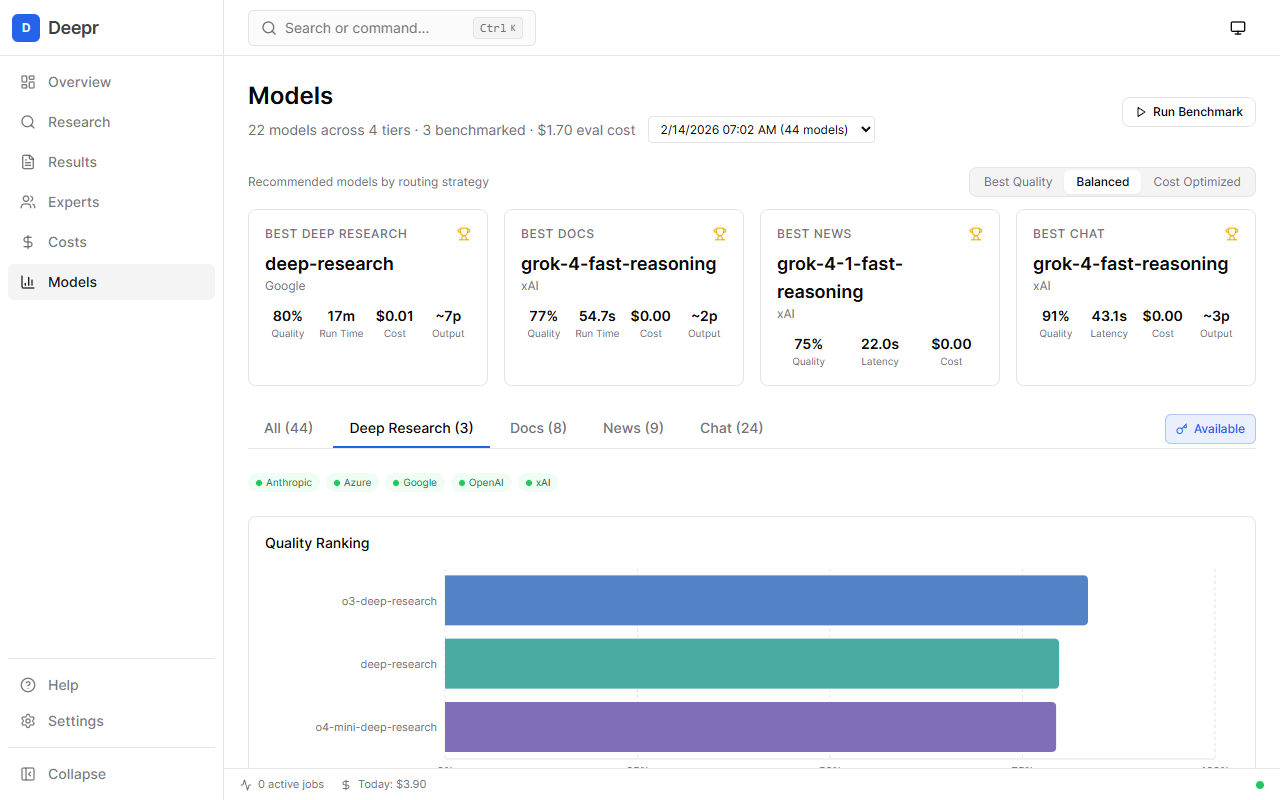
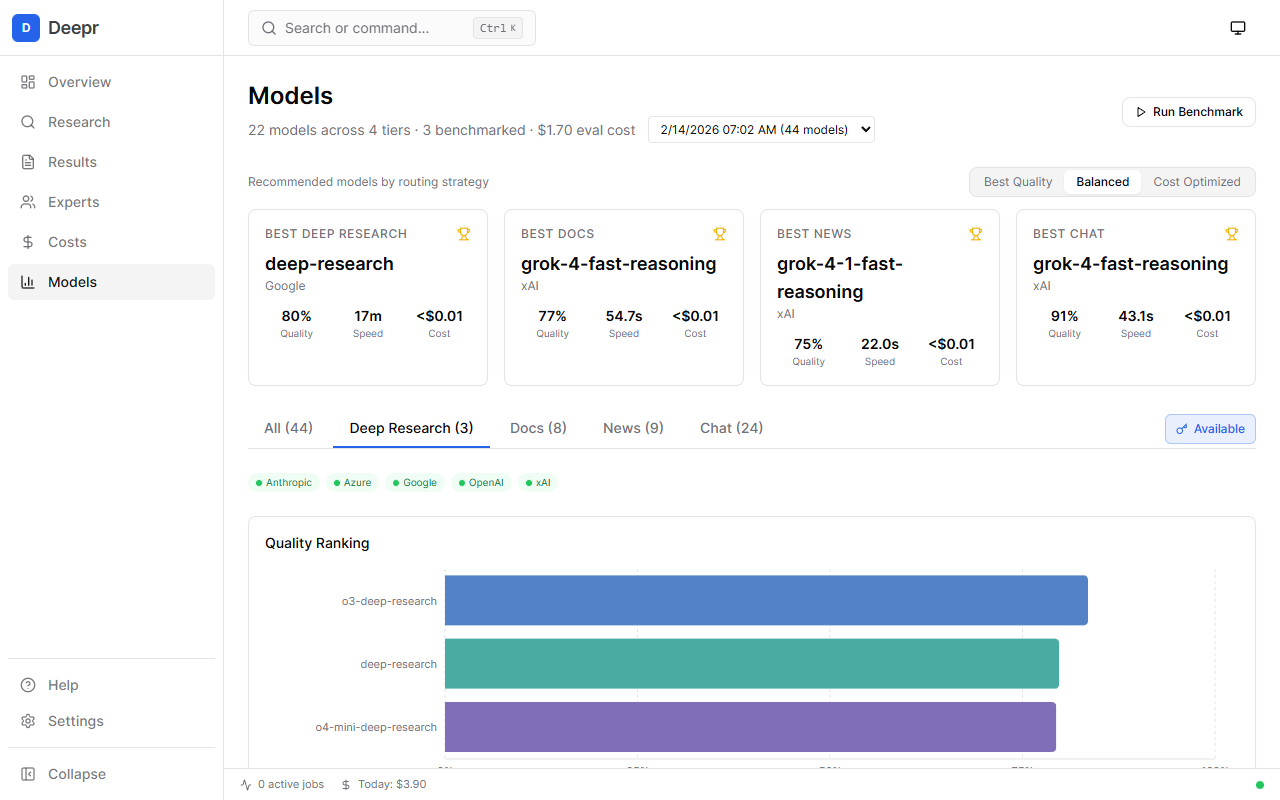
Update startup, currency formatting, and benchmarks UI
Add allow_unsafe_werkzeug=True to socketio.run to allow running with newer Werkzeug during development. Improve formatCurrency to render amounts between $0 and $0.01 as "<$0.01". Simplify the Benchmarks page by removing the avgReportLengthByTier memo and the variable 4th "Output" column: use a fixed 3-column grid and rename the latency label to "Speed". Also update assets/models.png (binary asset changed).

diff --git a/deepr/web/frontend/src/pages/benchmarks.tsx b/deepr/web/frontend/src/pages/benchmarks.tsx
@@ -272,21 +272,6 @@ export default function Benchmarks() {
 
   // Compute average report length per tier from results
   // NOTE: must be before early returns to satisfy Rules of Hooks
-  const avgReportLengthByTier = useMemo(() => {
-    const map: Record<string, { total: number; count: number }> = {}
-    for (const r of results) {
-      if (r.report_length > 0) {
-        if (!map[r.tier]) map[r.tier] = { total: 0, count: 0 }
-        map[r.tier].total += r.report_length
-        map[r.tier].count++
-      }
-    }
-    const result: Record<string, number> = {}
-    for (const [tier, { total, count }] of Object.entries(map)) {
-      result[tier] = Math.round(total / count)
-    }
-    return result
-  }, [results])
 
   if (isLoading) {
     return (
@@ -499,25 +484,19 @@ export default function Benchmarks() {
                 </div>
                 <p className="text-lg font-semibold text-foreground">{modelName}</p>
                 <p className="text-xs text-muted-foreground mb-3">{providerLabel(provider)}</p>
-                <div className={cn("grid gap-2 text-center", avgReportLengthByTier[tier] ? "grid-cols-4" : "grid-cols-3")}>
+                <div className="grid grid-cols-3 gap-2 text-center">
                   <div>
                     <p className="text-sm font-bold text-foreground">{(top.avg_quality * 100).toFixed(0)}%</p>
                     <p className="text-[10px] text-muted-foreground">Quality</p>
                   </div>
                   <div>
                     <p className="text-sm font-bold text-foreground">{formatLatency(top.avg_latency_ms)}</p>
-                    <p className="text-[10px] text-muted-foreground">{tier === 'research' || tier === 'docs' ? 'Run Time' : 'Latency'}</p>
+                    <p className="text-[10px] text-muted-foreground">Speed</p>
                   </div>
                   <div>
                     <p className="text-sm font-bold text-foreground">{formatCurrency(top.total_cost)}</p>
                     <p className="text-[10px] text-muted-foreground">Cost</p>
                   </div>
-                  {avgReportLengthByTier[tier] && (
-                    <div>
-                      <p className="text-sm font-bold text-foreground">~{Math.round(avgReportLengthByTier[tier] / 500)}p</p>
-                      <p className="text-[10px] text-muted-foreground">Output</p>
-                    </div>
-                  )}
                 </div>
               </div>
             )

diff --git a/deepr/web/frontend/src/lib/utils.ts b/deepr/web/frontend/src/lib/utils.ts
@@ -6,6 +6,7 @@ export function cn(...inputs: ClassValue[]) {
 }
 
 export function formatCurrency(amount: number): string {
+  if (amount > 0 && amount < 0.01) return '<$0.01'
   return `$${amount.toFixed(2)}`
 }
 

diff --git a/deepr/web/app.py b/deepr/web/app.py
@@ -2849,4 +2849,4 @@ if __name__ == "__main__":
     import os as _os
 
     debug = _os.environ.get("FLASK_DEBUG", "0") == "1"
-    socketio.run(app, debug=debug, host="0.0.0.0", port=5000)
+    socketio.run(app, debug=debug, host="0.0.0.0", port=5000, allow_unsafe_werkzeug=True)
